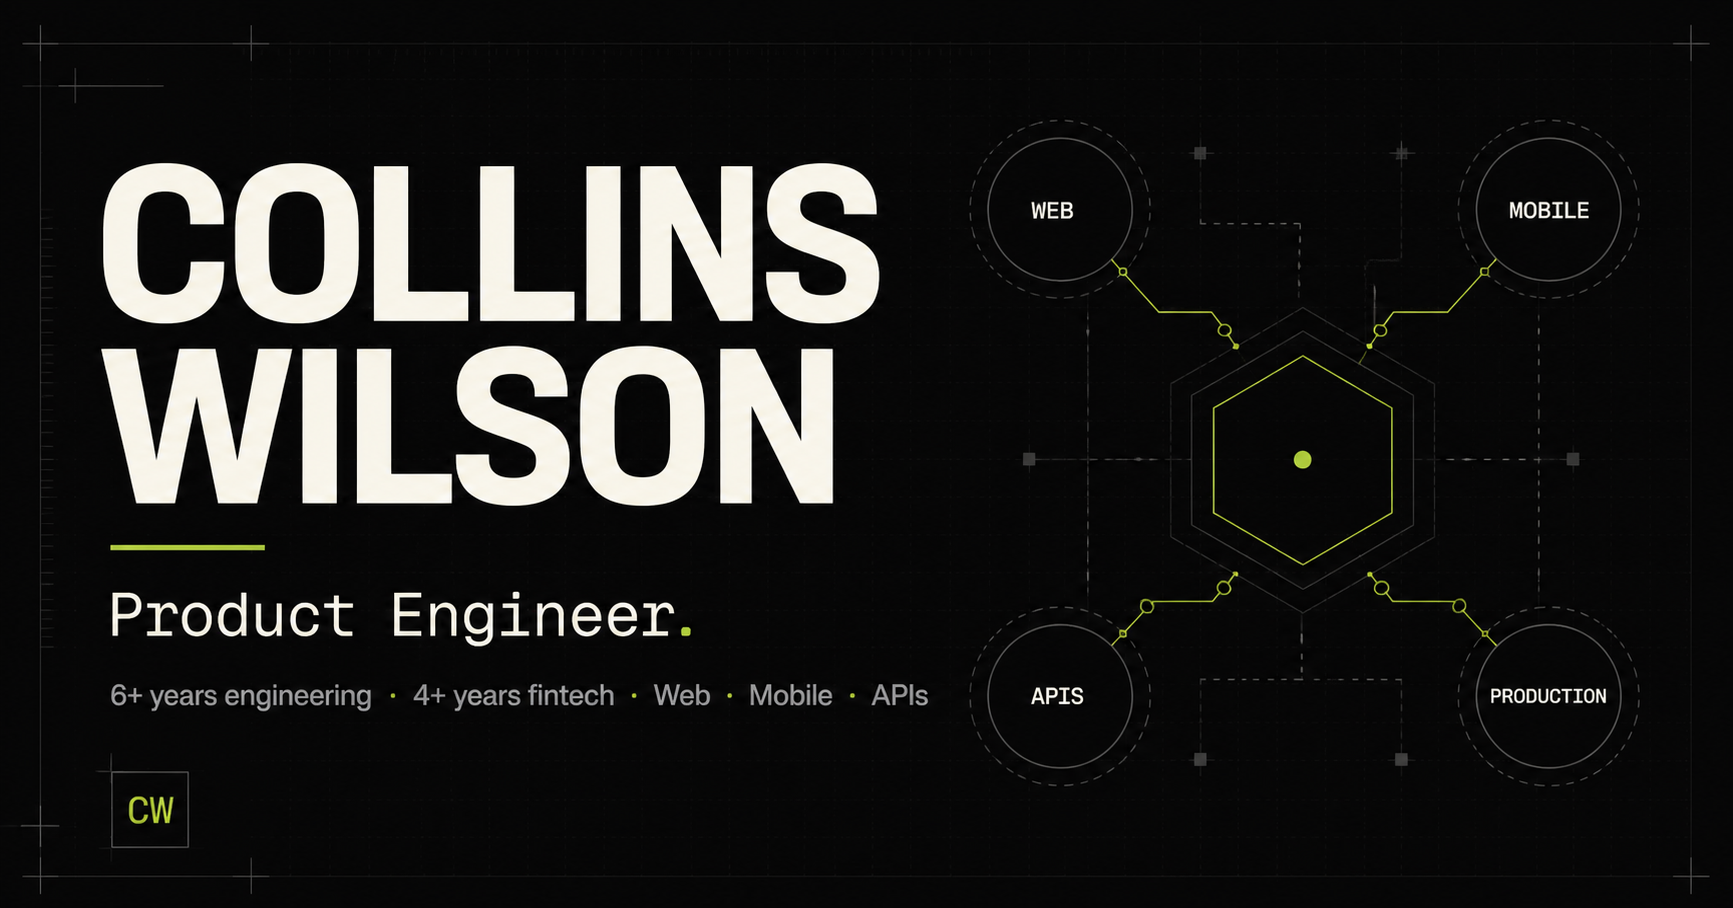
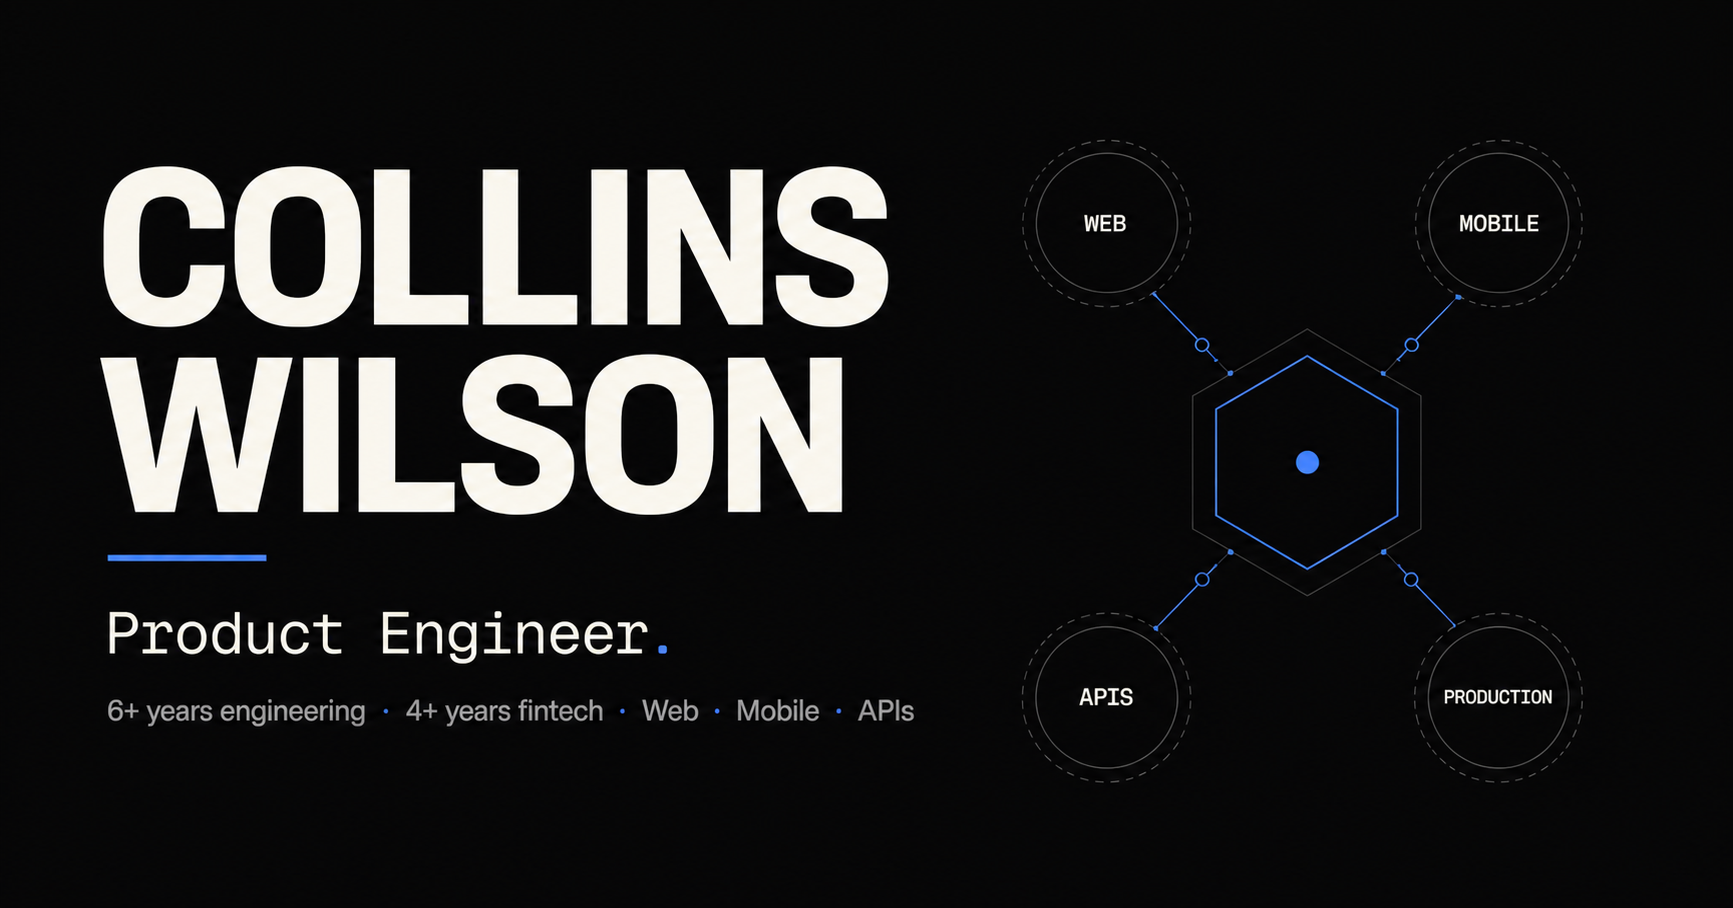
feat: refine portfolio with blue visual system

diff --git a/app/globals.css b/app/globals.css
@@ -1,15 +1,16 @@
 @import "tailwindcss";
 
 :root {
-  --background: #090909;
-  --surface: #111111;
-  --surface-2: #171717;
-  --text: #f5f5f2;
-  --muted: #a3a3a0;
-  --dim: #70706d;
-  --accent: #c7ff3d;
-  --accent-soft: rgba(199, 255, 61, 0.12);
-  --border: rgba(255, 255, 255, 0.1);
+  --background: #06080d;
+  --surface: #0c111b;
+  --surface-2: #111a29;
+  --text: #f3f7ff;
+  --muted: #9aa7bb;
+  --dim: #637087;
+  --accent: #3b82f6;
+  --accent-bright: #60a5fa;
+  --accent-soft: rgba(59, 130, 246, 0.14);
+  --border: rgba(148, 180, 225, 0.14);
   --shell: min(1240px, calc(100vw - 64px));
 }
 
@@ -28,7 +29,7 @@ body {
   overflow-x: hidden;
 }
 
-::selection { background: var(--accent); color: #0b0b0b; }
+::selection { background: var(--accent); color: #ffffff; }
 a { color: inherit; text-decoration: none; }
 img { display: block; max-width: 100%; }
 button, summary { font: inherit; }
@@ -52,15 +53,13 @@ button, summary { font: inherit; }
   position: fixed;
   z-index: 100;
   inset: 0 0 auto;
-  background: rgba(9, 9, 9, 0.82);
+  background: rgba(6, 8, 13, 0.86);
   border-bottom: 1px solid var(--border);
   backdrop-filter: blur(18px);
 }
 
-.navigation { height: 76px; display: grid; grid-template-columns: 1fr auto 1fr; align-items: center; }
-.wordmark { justify-self: start; font-size: 1.3rem; font-weight: 800; letter-spacing: -0.06em; }
-.wordmark span { color: var(--accent); }
-.desktop-nav { display: flex; gap: 32px; align-items: center; }
+.navigation { height: 76px; display: grid; grid-template-columns: 1fr auto; align-items: center; }
+.desktop-nav { display: flex; gap: 32px; align-items: center; justify-self: start; }
 .desktop-nav a, .nav-cta { color: var(--muted); font-size: 0.84rem; transition: color 180ms ease; }
 .desktop-nav a:hover, .nav-cta:hover { color: var(--text); }
 .nav-cta { justify-self: end; color: var(--text); }
@@ -81,77 +80,67 @@ button, summary { font: inherit; }
   min-height: 100svh;
   padding: 150px 0 70px;
   display: grid;
-  grid-template-columns: minmax(0, 1fr) auto;
+  grid-template-columns: minmax(0, 1fr);
   align-items: center;
   isolation: isolate;
-}
-.hero-grid {
-  position: absolute;
-  z-index: -2;
-  inset: 76px calc((100vw - var(--shell)) / -2) 0;
-  opacity: 0.2;
-  background-image: linear-gradient(var(--border) 1px, transparent 1px), linear-gradient(90deg, var(--border) 1px, transparent 1px);
-  background-size: 64px 64px;
-  mask-image: linear-gradient(to bottom, black, transparent 88%);
 }
 .hero::after {
   content: "";
   position: absolute;
   z-index: -1;
-  width: 560px;
-  height: 560px;
-  right: 4%;
-  top: 23%;
+  width: 680px;
+  height: 680px;
+  right: -10%;
+  top: 16%;
   border-radius: 50%;
   background: var(--accent);
-  filter: blur(190px);
-  opacity: 0.06;
+  filter: blur(220px);
+  opacity: 0.11;
 }
 .hero-content { max-width: 1030px; }
 .hero-eyebrow { display: flex; align-items: center; gap: 10px; }
 .availability-dot { width: 7px; height: 7px; border-radius: 50%; background: var(--accent); box-shadow: 0 0 0 5px var(--accent-soft); }
 .hero h1 {
   margin: 40px 0 28px;
-  font-size: clamp(5rem, 13vw, 11.5rem);
-  font-weight: 750;
-  line-height: 0.73;
-  letter-spacing: -0.085em;
+  font-size: clamp(4.8rem, 10vw, 9rem);
+  font-weight: 720;
+  line-height: 0.82;
+  letter-spacing: -0.075em;
 }
-.hero h1 span { color: transparent; -webkit-text-stroke: 1.5px rgba(245,245,242,0.62); }
+.hero h1 span { color: var(--accent-bright); }
 .hero-copy { max-width: 750px; margin: 0; color: #d0d0cc; font-size: clamp(1.16rem, 2vw, 1.55rem); line-height: 1.5; letter-spacing: -0.02em; }
 .experience-line { display: flex; flex-wrap: wrap; gap: 9px; margin: 24px 0 0; color: var(--muted); font-size: 0.85rem; }
 .experience-line strong { color: var(--text); font-weight: 600; }
 .experience-line span { color: var(--accent); }
 .hero-actions { display: flex; flex-wrap: wrap; gap: 12px; margin-top: 38px; }
 .button { display: inline-flex; align-items: center; justify-content: center; gap: 22px; min-height: 52px; padding: 0 22px; border: 1px solid var(--border); font-size: 0.83rem; font-weight: 700; text-transform: uppercase; letter-spacing: 0.06em; transition: 180ms ease; }
-.button-primary { background: var(--accent); border-color: var(--accent); color: #090909; }
-.button-primary:hover { background: #ddff88; border-color: #ddff88; transform: translateY(-2px); }
+.button-primary { background: var(--accent); border-color: var(--accent); color: #ffffff; }
+.button-primary:hover { background: var(--accent-bright); border-color: var(--accent-bright); transform: translateY(-2px); }
 .button-secondary:hover { border-color: var(--text); background: rgba(255,255,255,0.04); }
-.hero-rail { position: absolute; right: 0; display: flex; flex-direction: column; gap: 20px; color: var(--dim); font-size: 0.66rem; letter-spacing: 0.13em; text-transform: uppercase; writing-mode: vertical-rl; }
 .scroll-note { position: absolute; bottom: 32px; left: 0; display: flex; gap: 15px; margin: 0; color: var(--dim); font-size: 0.67rem; letter-spacing: 0.1em; text-transform: uppercase; }
 .scroll-note span { color: var(--accent); }
 
 .section { padding-block: 150px; }
-.section-heading { display: grid; grid-template-columns: 1fr 2fr; gap: 40px; align-items: start; margin-bottom: 80px; }
+.section-heading { display: grid; grid-template-columns: 0.7fr 1.3fr; gap: 40px; align-items: start; margin-bottom: 80px; }
 .section-heading h2, .about-copy h2, .fintech-copy h2, .contact-layout h2 {
   margin: -8px 0 24px;
-  font-size: clamp(3rem, 7vw, 6.5rem);
-  line-height: 0.92;
+  font-size: clamp(3rem, 6vw, 5.5rem);
+  line-height: 0.96;
   letter-spacing: -0.065em;
   font-weight: 680;
 }
 .section-heading > div > p { max-width: 540px; margin: 0; color: var(--muted); font-size: 1.05rem; }
 .compact-heading { margin-bottom: 64px; }
 
-.project-list { display: grid; gap: 32px; }
-.project-card { display: grid; grid-template-columns: 0.84fr 1.16fr; min-height: 590px; border: 1px solid var(--border); background: var(--surface); overflow: hidden; }
+.project-list { display: grid; gap: 40px; }
+.project-card { display: grid; grid-template-columns: 0.84fr 1.16fr; min-height: 590px; border: 1px solid var(--border); border-radius: 20px; background: var(--surface); overflow: hidden; box-shadow: 0 26px 80px rgba(0,0,0,0.22); }
 .project-card:nth-child(even) { grid-template-columns: 1.16fr 0.84fr; }
 .project-card:nth-child(even) .project-content { order: 2; }
 .project-content { padding: clamp(32px, 5vw, 68px); display: flex; flex-direction: column; align-items: flex-start; }
 .project-meta { min-height: 28px; display: flex; flex-wrap: wrap; gap: 8px; margin-bottom: auto; }
 .status, .ownership { display: inline-flex; align-items: center; min-height: 25px; padding: 0 9px; border: 1px solid var(--border); color: var(--muted); font-size: 0.62rem; font-weight: 700; letter-spacing: 0.08em; text-transform: uppercase; }
 .status-live::before { content: ""; width: 5px; height: 5px; margin-right: 7px; border-radius: 50%; background: var(--accent); }
-.status-development { color: var(--accent); border-color: rgba(199,255,61,0.28); }
+.status-development { color: var(--accent-bright); border-color: rgba(96,165,250,0.35); }
 .project-content .eyebrow { margin-top: 52px; }
 .project-content h3 { margin: 10px 0 0; font-size: clamp(2.8rem, 5vw, 5.2rem); line-height: 1; letter-spacing: -0.06em; }
 .project-role { margin: 14px 0 26px; color: var(--accent); font-size: 0.8rem; font-weight: 700; letter-spacing: 0.05em; text-transform: uppercase; }
@@ -166,32 +155,31 @@ button, summary { font: inherit; }
 .project-visual { position: relative; min-height: 100%; background: #1b1b1b; overflow: hidden; }
 .project-visual img, .case-visual img { width: 100%; height: 100%; object-fit: cover; object-position: top center; transition: transform 500ms cubic-bezier(.2,.7,.2,1); }
 .project-card:hover .project-visual img { transform: scale(1.025); }
-.product-placeholder { position: relative; width: 100%; height: 100%; min-height: 420px; display: flex; flex-direction: column; justify-content: flex-end; padding: clamp(28px, 5vw, 60px); overflow: hidden; background: #191919; }
+.product-placeholder { position: relative; width: 100%; height: 100%; min-height: 420px; display: flex; flex-direction: column; justify-content: flex-end; padding: clamp(28px, 5vw, 60px); overflow: hidden; background: #101a29; }
 .product-placeholder::before { content: ""; position: absolute; width: 460px; height: 460px; border: 1px solid rgba(255,255,255,0.16); border-radius: 50%; top: 10%; right: -8%; }
 .product-placeholder::after { content: ""; position: absolute; width: 250px; height: 250px; border: 1px solid var(--accent); border-radius: 50%; top: 22%; right: 8%; opacity: 0.55; }
-.product-placeholder-fundziq { background: linear-gradient(145deg, #132817, #0d1510 60%); }
-.product-placeholder-weblaunchhub { background: linear-gradient(145deg, #241b11, #15120d 60%); }
+.product-placeholder-fundziq { background: linear-gradient(145deg, #102a56, #0b1423 68%); }
+.product-placeholder-weblaunchhub { background: linear-gradient(145deg, #172554, #0b1220 68%); }
 .placeholder-index { position: absolute; top: 34px; left: 38px; color: var(--muted); font-size: 0.65rem; letter-spacing: 0.12em; text-transform: uppercase; }
 .placeholder-name { position: relative; z-index: 1; font-size: clamp(2.5rem, 5vw, 5.5rem); font-weight: 750; line-height: 0.95; letter-spacing: -0.07em; }
 .placeholder-line { position: relative; z-index: 1; width: 76px; height: 5px; margin-top: 22px; background: var(--accent); }
 
-.fintech-band { padding: 140px 0 0; background: var(--accent); color: #0a0a0a; }
+.fintech-band { padding: 140px 0 0; background: #0b2a52; color: #f5f8ff; border-block: 1px solid rgba(96,165,250,0.22); }
 .fintech-layout { display: grid; grid-template-columns: 1fr 2fr; gap: 40px; padding-bottom: 120px; }
 .fintech-stat { display: flex; flex-direction: column; }
-.fintech-stat strong { font-size: clamp(7rem, 15vw, 14rem); line-height: 0.8; letter-spacing: -0.09em; }
+.fintech-stat strong { color: var(--accent-bright); font-size: clamp(7rem, 15vw, 14rem); line-height: 0.8; letter-spacing: -0.09em; }
 .fintech-stat span { margin-top: 30px; font-size: 0.76rem; font-weight: 800; letter-spacing: 0.12em; line-height: 1.6; text-transform: uppercase; }
-.fintech-copy .section-number { color: rgba(0,0,0,0.56); margin-bottom: 52px; }
+.fintech-copy .section-number { color: #93c5fd; margin-bottom: 52px; }
 .fintech-copy h2 { font-size: clamp(3.4rem, 7vw, 7rem); }
 .fintech-copy > p:not(.section-number) { max-width: 700px; font-size: 1.14rem; }
-.company-proof { display: grid; grid-template-columns: 1fr 1fr; gap: 20px; margin-top: 54px; padding-top: 22px; border-top: 1px solid rgba(0,0,0,0.25); font-size: 0.78rem; font-weight: 700; letter-spacing: 0.05em; text-transform: uppercase; }
+.company-proof { display: grid; grid-template-columns: 1fr 1fr; gap: 20px; margin-top: 54px; padding-top: 22px; border-top: 1px solid rgba(255,255,255,0.2); font-size: 0.78rem; font-weight: 700; letter-spacing: 0.05em; text-transform: uppercase; }
 .capability-marquee { overflow: hidden; padding: 23px 0; background: #0a0a0a; color: var(--text); white-space: nowrap; }
 .capability-marquee div { width: max-content; font-size: 0.75rem; font-weight: 700; letter-spacing: 0.12em; text-transform: uppercase; }
 .capability-marquee span { margin: 0 28px; color: var(--accent); font-size: 0.5rem; }
 
-.process-grid { display: grid; grid-template-columns: repeat(4, 1fr); margin: 0; padding: 0; list-style: none; border-top: 1px solid var(--border); border-bottom: 1px solid var(--border); }
-.process-grid li { min-height: 340px; padding: 30px 28px 38px; border-right: 1px solid var(--border); transition: background 180ms ease; }
-.process-grid li:last-child { border-right: 0; }
-.process-grid li:hover { background: var(--surface); }
+.process-grid { display: grid; grid-template-columns: repeat(4, 1fr); gap: 14px; margin: 0; padding: 0; list-style: none; }
+.process-grid li { min-height: 320px; padding: 30px 28px 38px; border: 1px solid var(--border); border-radius: 14px; background: var(--surface); transition: border-color 180ms ease, transform 180ms ease; }
+.process-grid li:hover { border-color: rgba(96,165,250,0.42); transform: translateY(-3px); }
 .process-grid li > span { color: var(--accent); font-size: 0.68rem; }
 .process-grid h3 { margin: 96px 0 20px; font-size: 1.35rem; letter-spacing: -0.03em; }
 .process-grid p { margin: 0; color: var(--muted); font-size: 0.89rem; line-height: 1.7; }
@@ -207,26 +195,25 @@ button, summary { font: inherit; }
 .experience-item li { padding: 8px 0; border-bottom: 1px solid var(--border); color: var(--muted); font-size: 0.77rem; }
 
 .toolkit-section { padding: 140px 0; background: var(--surface); }
-.toolkit-grid { display: grid; grid-template-columns: repeat(3, 1fr); border-top: 1px solid var(--border); border-left: 1px solid var(--border); }
-.toolkit-grid > div { min-height: 190px; padding: 30px; border-right: 1px solid var(--border); border-bottom: 1px solid var(--border); }
+.toolkit-grid { display: grid; grid-template-columns: repeat(3, 1fr); gap: 12px; }
+.toolkit-grid > div { min-height: 190px; padding: 30px; border: 1px solid var(--border); border-radius: 14px; background: rgba(59,130,246,0.035); }
 .toolkit-grid h3 { margin: 0 0 52px; font-size: 0.8rem; text-transform: uppercase; letter-spacing: 0.08em; }
 .toolkit-grid p { margin: 0; color: var(--muted); font-size: 0.88rem; line-height: 1.8; }
 
 .about-section { display: grid; grid-template-columns: 0.85fr 1.15fr; gap: clamp(50px, 8vw, 120px); align-items: center; }
 .about-image-wrap { position: relative; align-self: stretch; min-height: 650px; background: var(--surface); filter: grayscale(1); }
 .about-image-wrap img { width: 100%; height: 100%; object-fit: cover; object-position: center top; }
-.about-image-wrap span { position: absolute; left: 0; bottom: 0; padding: 13px 18px; background: var(--accent); color: #090909; font-size: 0.66rem; font-weight: 800; letter-spacing: 0.08em; text-transform: uppercase; }
 .about-copy h2 { margin: 48px 0 42px; }
 .about-copy > p:not(.section-number) { color: #b9b9b6; font-size: 1rem; line-height: 1.85; }
 .about-copy .text-link { margin-top: 28px; }
 
-.contact-section { padding: 150px 0 90px; background: #e9e9e3; color: #090909; }
-.contact-layout .section-number { color: #62625d; }
+.contact-section { padding: 150px 0 90px; background: #081d3a; color: #f5f8ff; border-top: 1px solid rgba(96,165,250,0.25); }
+.contact-layout .section-number { color: #93c5fd; }
 .contact-layout h2 { margin-top: 60px; font-size: clamp(4.2rem, 10.5vw, 10rem); }
-.contact-layout h2 em { color: transparent; font-family: Georgia, serif; font-weight: 400; -webkit-text-stroke: 1.5px #090909; }
-.contact-layout > p:not(.section-number) { max-width: 620px; margin: 38px 0 64px auto; color: #4b4b47; font-size: 1.1rem; }
-.contact-email { display: flex; justify-content: space-between; align-items: center; padding: 28px 0; border-top: 1px solid #aaa; border-bottom: 1px solid #aaa; font-size: clamp(1.1rem, 3vw, 2.2rem); font-weight: 600; letter-spacing: -0.03em; }
-.contact-email span { color: #4e6711; }
+.contact-layout h2 em { color: var(--accent-bright); font-family: inherit; font-style: normal; font-weight: 680; }
+.contact-layout > p:not(.section-number) { max-width: 620px; margin: 38px 0 64px auto; color: #b7c5d9; font-size: 1.1rem; }
+.contact-email { display: flex; justify-content: space-between; align-items: center; padding: 28px 0; border-top: 1px solid rgba(255,255,255,0.25); border-bottom: 1px solid rgba(255,255,255,0.25); font-size: clamp(1.1rem, 3vw, 2.2rem); font-weight: 600; letter-spacing: -0.03em; }
+.contact-email span { color: var(--accent-bright); }
 .contact-links { display: flex; gap: 28px; justify-content: flex-end; margin-top: 40px; font-size: 0.75rem; font-weight: 800; text-transform: uppercase; }
 
 .footer { display: grid; grid-template-columns: 1fr auto 1fr; align-items: center; min-height: 120px; color: var(--dim); font-size: 0.7rem; text-transform: uppercase; letter-spacing: 0.06em; }
@@ -258,7 +245,7 @@ button, summary { font: inherit; }
 .case-sidebar p { margin: 16px 0 18px; font-size: 0.67rem; text-transform: uppercase; letter-spacing: 0.1em; }
 .case-sidebar ul { margin: 0; padding: 0; list-style: none; color: var(--muted); font-size: 0.78rem; }
 .case-sidebar li { padding: 7px 0; }
-.next-project { display: grid; grid-template-columns: 1fr auto auto; gap: 40px; align-items: center; min-height: 280px; padding: 50px max(32px, calc((100vw - 1240px) / 2)); background: var(--accent); color: #090909; }
+.next-project { display: grid; grid-template-columns: 1fr auto auto; gap: 40px; align-items: center; min-height: 280px; padding: 50px max(32px, calc((100vw - 1240px) / 2)); background: #1456b8; color: #ffffff; }
 .next-project span:first-child { font-size: 0.7rem; font-weight: 800; letter-spacing: 0.1em; text-transform: uppercase; }
 .next-project strong { font-size: clamp(3rem, 7vw, 7rem); line-height: 1; letter-spacing: -0.065em; }
 .next-project span:last-child { font-size: 3rem; }
@@ -298,7 +285,6 @@ button, summary { font: inherit; }
   .hero { min-height: 870px; padding: 128px 0 76px; align-items: start; }
   .hero h1 { margin-top: 64px; font-size: clamp(4.4rem, 24vw, 7.2rem); line-height: 0.78; }
   .hero-copy { font-size: 1.06rem; }
-  .hero-rail { display: none; }
   .scroll-note { bottom: 24px; }
   .section { padding-block: 88px; }
   .section-heading { grid-template-columns: 1fr; gap: 46px; margin-bottom: 54px; }
@@ -314,8 +300,7 @@ button, summary { font: inherit; }
   .fintech-copy .section-number { margin: 24px 0 40px; }
   .company-proof { grid-template-columns: 1fr; gap: 4px; }
   .process-grid { grid-template-columns: 1fr; }
-  .process-grid li, .process-grid li:nth-child(2) { min-height: 250px; border-right: 0; border-bottom: 1px solid var(--border); }
-  .process-grid li:last-child { border-bottom: 0; }
+  .process-grid li, .process-grid li:nth-child(2) { min-height: 250px; }
   .process-grid h3 { margin-top: 54px; }
   .experience-item { grid-template-columns: 1fr; gap: 22px; }
   .experience-item ul { grid-column: auto; }

diff --git a/app/page.tsx b/app/page.tsx
@@ -16,9 +16,8 @@ export default function Home() {
   return (
     <main id="main-content">
       <section className="hero shell" id="home">
-        <div className="hero-grid" aria-hidden="true" />
         <div className="hero-content">
-          <p className="eyebrow hero-eyebrow"><span className="availability-dot" /> Collins Wilson · Lagos / Available worldwide</p>
+          <p className="eyebrow hero-eyebrow"><span className="availability-dot" /> Collins Wilson · Available for global opportunities</p>
           <h1>Product<br /><span>Engineer.</span></h1>
           <p className="hero-copy">
             I build digital products from idea to production — across web, mobile, APIs, backend systems and third-party integrations.
@@ -28,9 +27,6 @@ export default function Home() {
             <a className="button button-primary" href="#work">View my work <span aria-hidden="true">↓</span></a>
             <a className="button button-secondary" href="#about">About me</a>
           </div>
-        </div>
-        <div className="hero-rail" aria-hidden="true">
-          <span>Product thinking</span><span>Web</span><span>Mobile</span><span>APIs</span><span>Production</span>
         </div>
         <p className="scroll-note" aria-hidden="true">Scroll to explore <span>↓</span></p>
       </section>
@@ -112,7 +108,6 @@ export default function Home() {
       <section className="section shell about-section" id="about">
         <div className="about-image-wrap">
           <img src="/images/profile/collins-wilson.jpg" alt="Collins Wilson" loading="lazy" />
-          <span>Based in Lagos · Working globally</span>
         </div>
         <div className="about-copy">
           <p className="section-number">06 / About</p>

diff --git a/data/projects.ts b/data/projects.ts
@@ -29,12 +29,12 @@ export const projects: Project[] = [
   {
     slug: "fundziq",
     name: "FundzIQ",
-    eyebrow: "Money planner · iOS",
+    eyebrow: "Money planner · iOS + Android",
     shortDescription:
       "A personal money-planning app that helps people organise recurring financial commitments and understand their monthly spending.",
     role: "Creator / Product Engineer",
     status: "live",
-    statusLabel: "Live on iOS",
+    statusLabel: "Available on iOS & Android",
     categories: ["Fintech", "Mobile"],
     featured: true,
     builtSolo: true,
@@ -58,7 +58,7 @@ export const projects: Project[] = [
       },
       {
         title: "My role",
-        body: "I own the complete product journey: defining the problem, shaping the experience, making the architecture decisions, building the iOS application, preparing its privacy requirements and taking it through production release.",
+        body: "I own the complete product journey: defining the problem, shaping the experience, making the architecture decisions, building the mobile application, preparing its privacy requirements and taking it through production release on iOS and Android.",
       },
       {
         title: "Engineering decisions",
@@ -66,7 +66,7 @@ export const projects: Project[] = [
       },
       {
         title: "Outcome",
-        body: "FundzIQ shipped as a production iOS product and remains the clearest demonstration of my ability to take an idea through product decisions, engineering and release.",
+        body: "FundzIQ shipped as a production mobile product on iOS and Android and remains the clearest demonstration of my ability to take an idea through product decisions, engineering and release.",
       },
     ],
   },

diff --git a/components/navigation.tsx b/components/navigation.tsx
@@ -5,10 +5,6 @@ export function Navigation() {
   return (
     <header className="site-header">
       <nav className="navigation shell" aria-label="Primary navigation">
-        <Link className="wordmark" href="/#home" aria-label="Collins Wilson, home">
-          {profile.initials}<span aria-hidden="true">.</span>
-        </Link>
-
         <div className="desktop-nav">
           {navigation.map((item) => (
             <Link key={item.href} href={item.href}>

diff --git a/app/manifest.ts b/app/manifest.ts
@@ -7,8 +7,8 @@ export default function manifest(): MetadataRoute.Manifest {
     description: "Product Engineer building across web, mobile and APIs.",
     start_url: "/",
     display: "standalone",
-    background_color: "#090909",
-    theme_color: "#090909",
+    background_color: "#06080d",
+    theme_color: "#06080d",
     icons: [{ src: "/favicon.svg", sizes: "any", type: "image/svg+xml" }],
   };
 }

diff --git a/data/profile.ts b/data/profile.ts
@@ -1,10 +1,8 @@
 export const profile = {
   name: "Collins Wilson",
-  initials: "CW",
   title: "Product Engineer",
   yearsEngineering: "6+",
   yearsFintech: "4+",
-  location: "Lagos, Nigeria",
   email: "wilsoncollins44@yahoo.com",
   siteUrl: "https://cre8ive-collins.github.io",
   cvUrl: "/files/collins-wilson-cv.pdf",
